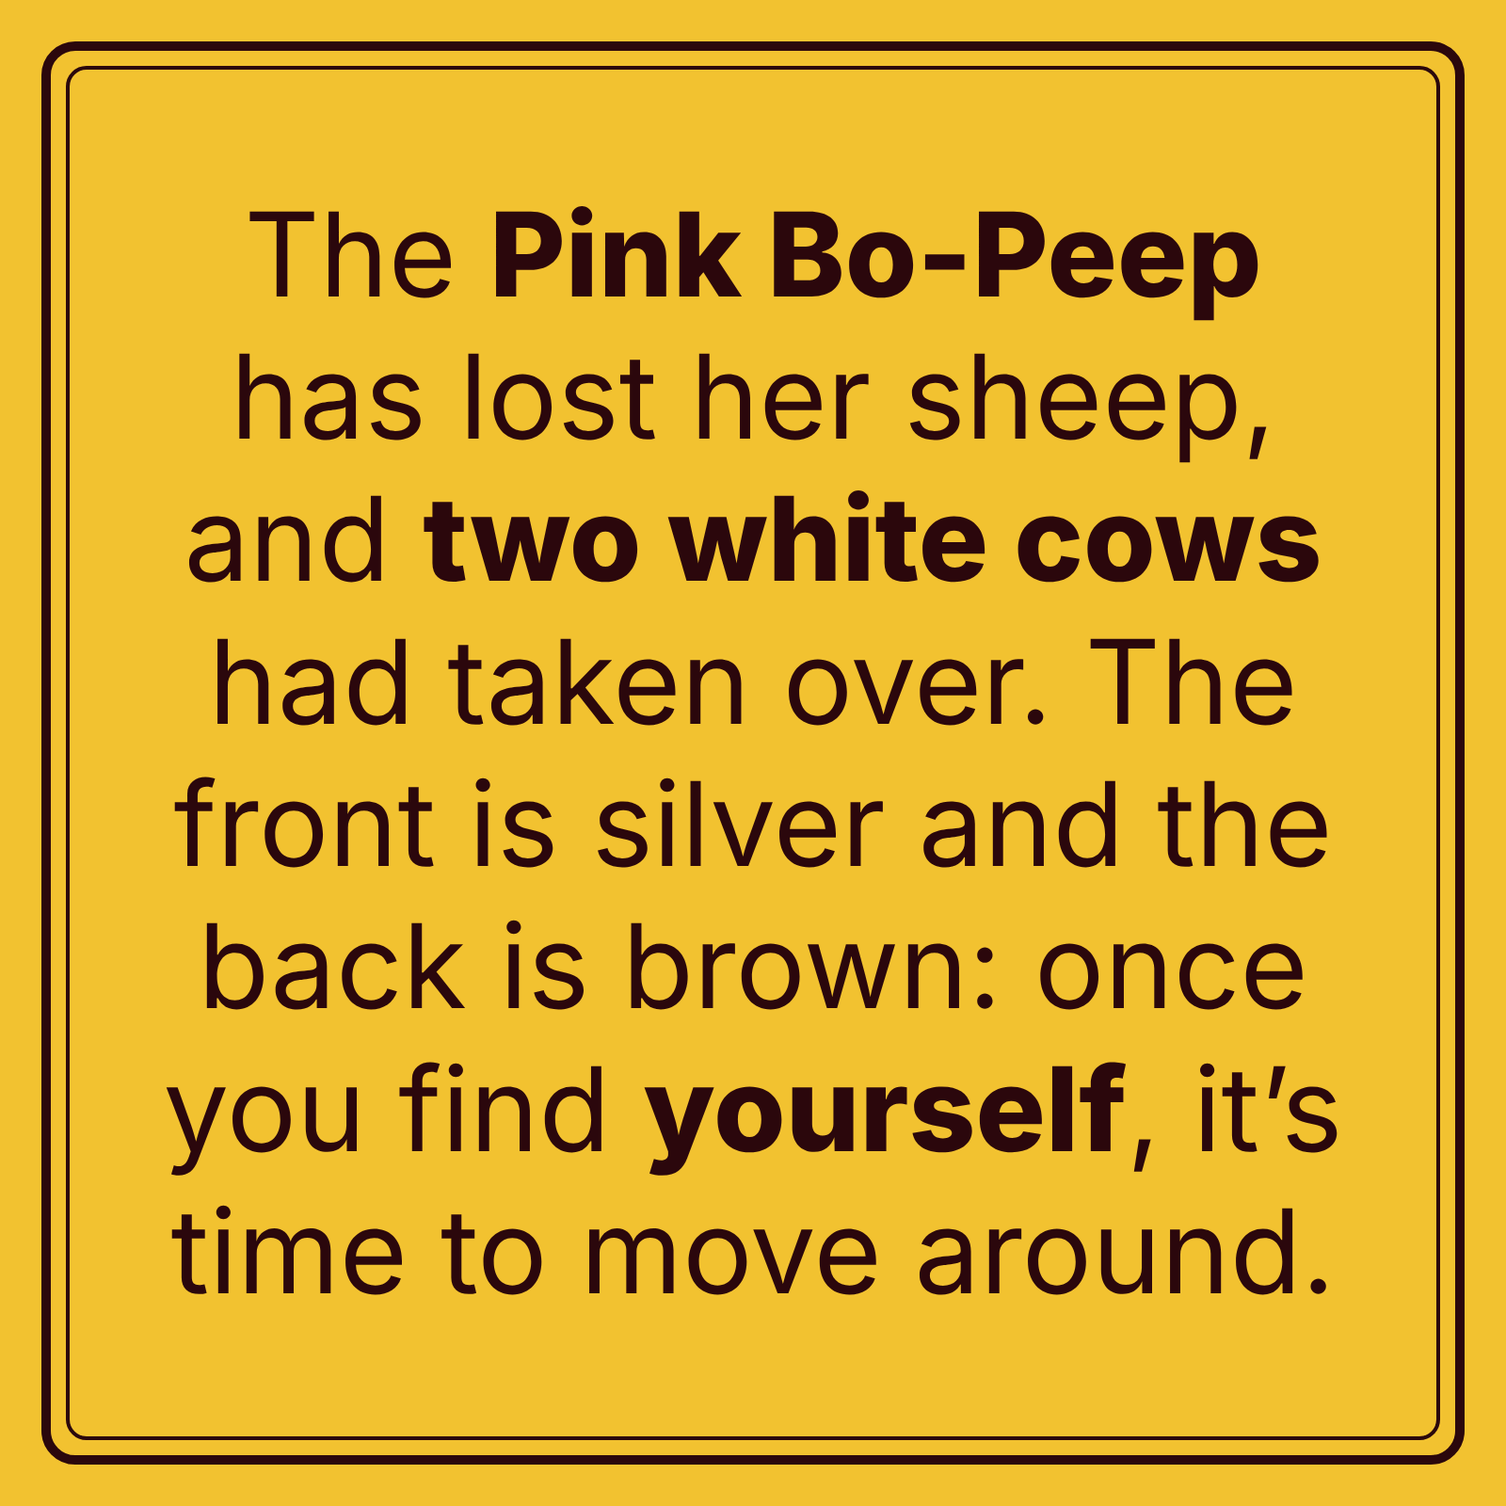
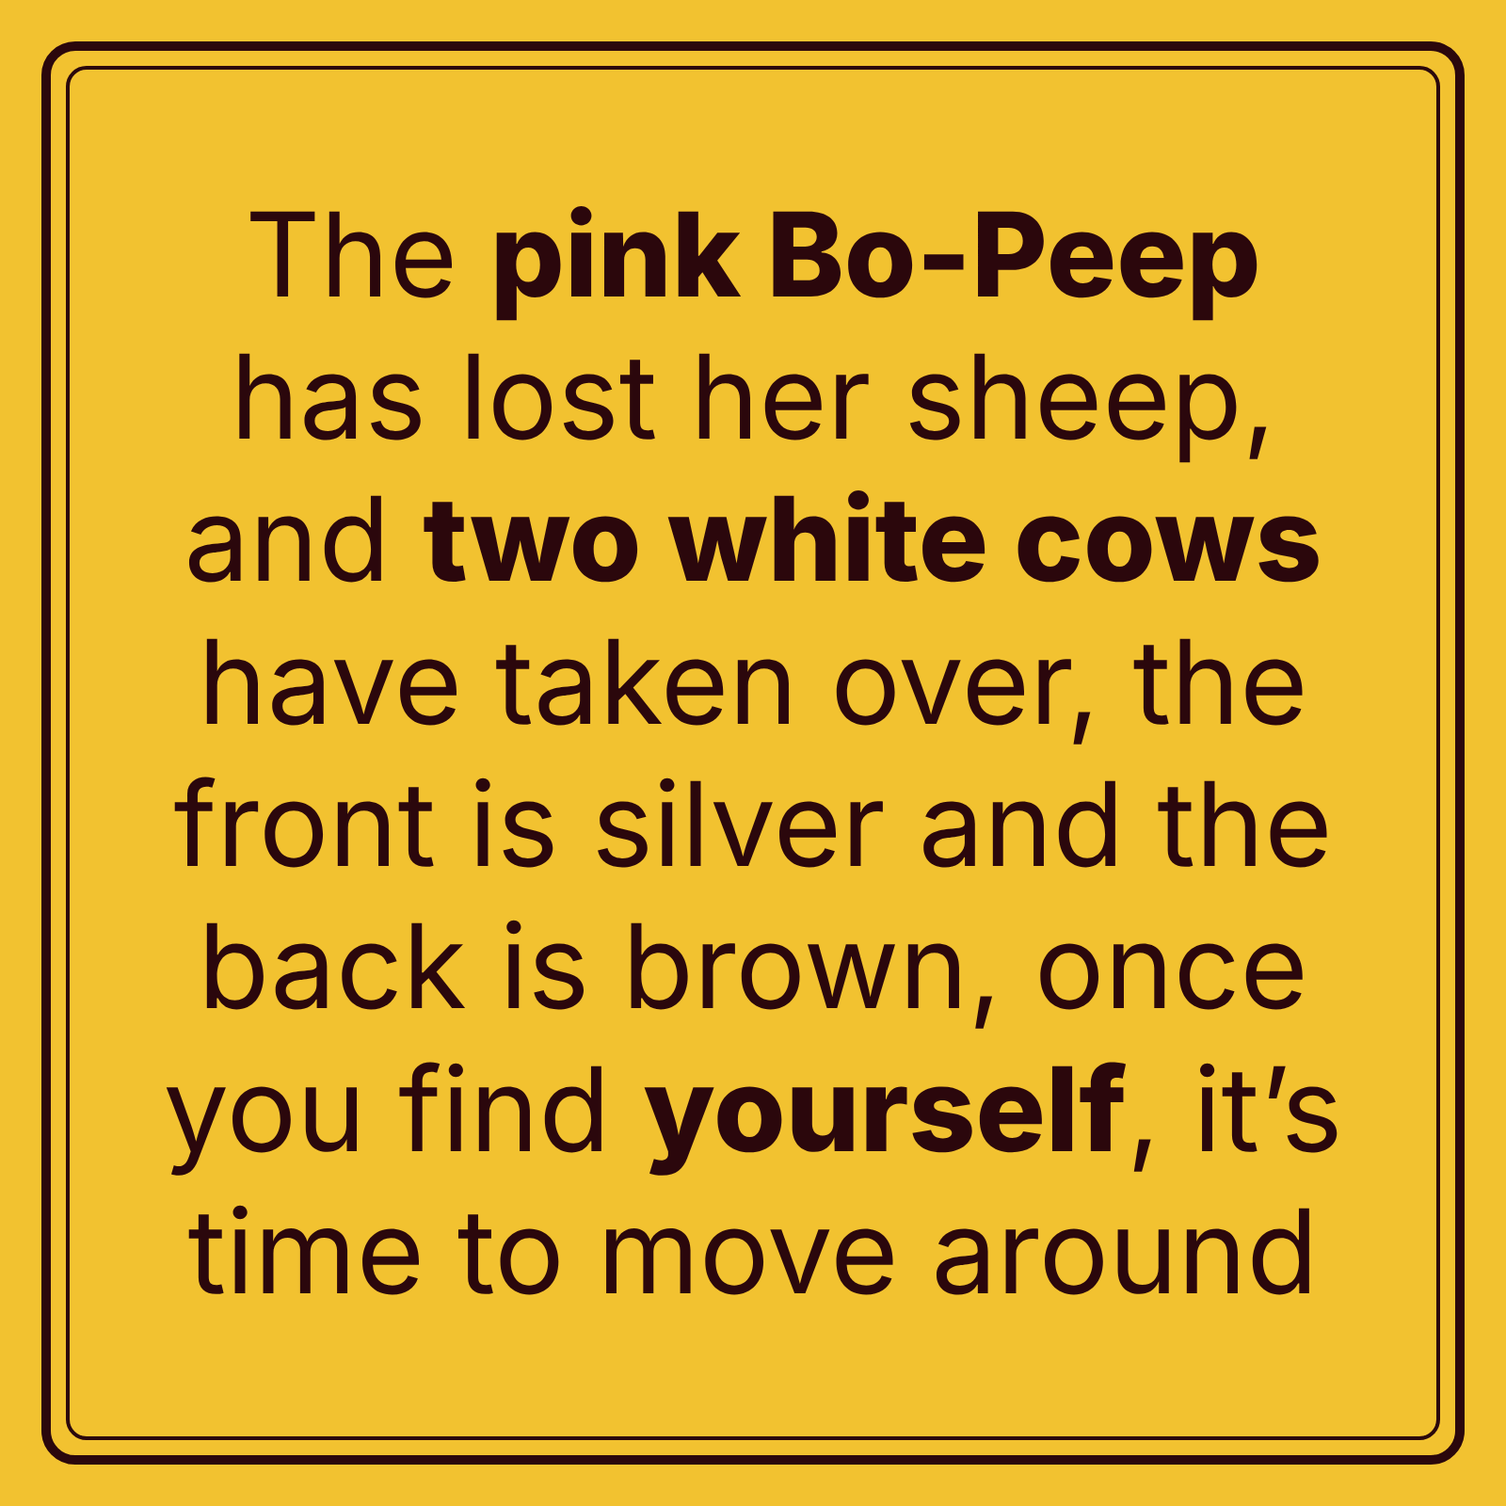
V4006: charcoal default, clearer riddle words, return button, found sound
- Charcoal panels are now the default look; &es3dtheme=e swaps the warm
  yellow for the original electric yellow, &es3dtheme=d gives the yellow
  panels
- The riddle's object words are in the accent colour so they stand out;
  found ones become a solid accent highlight
- Round return button appears after jumping to another level from the
  Found list and takes the player back
- A short, warm found sound made in code, silenced by the mute button
- Name particle effect removed
- Levels 1 and 14 riddles restored word for word from the floor discs,
  and their square disc drafts redrawn

Claude-Session: https://claude.ai/code/session_011WV4C4SMjVX6iBBxmqPquX

diff --git a/mashup_es3d.js b/mashup_es3d.js
@@ -1,5 +1,5 @@
 // =============================================================================
-// EYE SPY 3D - ENGINE (V4005)
+// EYE SPY 3D - ENGINE (V4006)
 // Rewrite of V3031. Still loaded into MPEmbed as a custom script, still uses
 // MPEmbed's popups and per-pano clue audio, but the game itself (levels,
 // progress, hints, skipping, scores) now lives here, with its own HUD.
@@ -14,7 +14,7 @@
   if (window.__ES3D_LOADED__) return;
   window.__ES3D_LOADED__ = true;
 
-  const VERSION = 'V4005';
+  const VERSION = 'V4006';
   console.log('EYE SPY 3D — ' + VERSION + ' loaded');
 
   // ---------------------------------------------------------------------------
@@ -39,9 +39,12 @@
   // address to turn it off, and &es3ddebug=1 to show how long each photo took.
   const PRELOAD_PHOTOS = !/[?&]es3dpreload=0/.test(location.search);
   const DEBUG_TIMING = /[?&]es3ddebug=1/.test(location.search);
-  const THEME = /[?&]es3dtheme=b/.test(location.search)
-    ? { name: 'b', bar: '#1a1714', barText: '#f2c230', burst: '#f2c230', burstEdge: '#1a1714' }
-    : { name: 'd', bar: '#f2c230', barText: '#2b070c', burst: '#f2c230', burstEdge: '#2b070c' };
+  const THEMES = {
+    b: { name: 'b', bar: '#1a1714', barText: '#f2c230' }, // charcoal panels, warm yellow accents
+    e: { name: 'e', bar: '#1a1714', barText: '#ccff00' }, // charcoal panels, electric yellow accents
+    d: { name: 'd', bar: '#f2c230', barText: '#2b070c' }  // yellow panels, burgundy text
+  };
+  const THEME = THEMES[(location.search.match(/[?&]es3dtheme=([a-z])/) || [])[1]] || THEMES.b;
   const SAVE_KEY = 'es3d_save_v1';
   const BOARD_KEY = 'es3d_board_v1';
   const BOARD_SIZE = 10;
@@ -58,7 +61,7 @@
   const LEVELS = [
     {
       sweep: 'cwckxx365uimbeqk6ngp0t5ud', clue: 'pink bopeep.mp3',
-      riddle: 'The {pink bo-peep|Pink Bo-Peep} has lost her sheep, and {two white cows|two white cows} had taken over. The front is silver and the back is brown: once you find {yourself|yourself}, it’s time to move around.',
+      riddle: 'The {pink bo-peep|pink Bo-Peep} has lost her sheep, and {two white cows|two white cows} have taken over, the front is silver and the back is brown, once you find {yourself|yourself}, it\u2019s time to move around',
       items: [
         { id: 'pink bo-peep', name: 'Pink Bo-Peep', photo: 'pink bopeep.jpeg', hint: 'A shepherdess with no flock, dressed in pink.', where: 'On the shelf, just below the two white cows.' },
         { id: 'two white cows', name: 'Two white cows', hint: 'Where the sheep should be, a pair of pale cattle stand instead.', where: 'Directly above the Pink Bo-Peep.' },
@@ -183,7 +186,7 @@
     },
     {
       sweep: 'aty78ze3y9ddyg8702gmncdma', clue: '',
-      riddle: 'When I rowed from {dimboola|Dimboola}, to {egypt etc|Egypt etc}, I wore my {akubra|Akubra} and spied a {tiger|tiger}, a {butterfly|butterfly}, and {horse head|horse head} to end it.',
+      riddle: 'When I rowed from {dimboola|Dimboola}, to {egypt etc|Egypt etc}, I wore my {akubra|Akubra} and spotted a {tiger|tiger}, a {butterfly|butterfly}, and {horse head|horse head} to end it',
       items: [
         { id: 'dimboola', name: 'Dimboola', hint: 'A town in western Victoria. Look for its name in a newspaper clipping.', where: 'To the right of the table in front of the two wooden shelves.' },
         { id: 'egypt etc', name: 'Egypt etc', hint: 'Pyramids, pharaohs and more. Look for the land of the Nile.', where: 'On the second shelf, opposite Dimboola.' },
@@ -283,6 +286,7 @@
     revealed: false,
     resume: false,
     advancePending: false,
+    returnLevel: null, // where a jump from the Found list came from
     currentSweep: '',
     arrivedAt: 0,
     photoBase: '/media/3780//',
@@ -360,10 +364,43 @@
   function unlockAudio() {
     if (audioUnlocked) return;
     audioUnlocked = true;
+    soundContext();
     const url = silentWavUrl();
     sfxPool.concat(clueAudio).forEach((el) => {
       el.src = url;
       el.play().catch(() => {});
+    });
+  }
+
+  let audioCtx = null;
+  function soundContext() {
+    try {
+      audioCtx = audioCtx || new (window.AudioContext || window.webkitAudioContext)();
+      if (audioCtx.state === 'suspended') audioCtx.resume();
+    } catch (e) {}
+    return audioCtx;
+  }
+
+  // Made in code, so there is no file to download.
+  function playFoundSound() {
+    const ctx = state.muted ? null : soundContext();
+    if (!ctx) return;
+    const now = ctx.currentTime;
+    const out = ctx.createGain();
+    out.gain.setValueAtTime(0.0001, now);
+    out.gain.exponentialRampToValueAtTime(0.5, now + 0.012);
+    out.gain.exponentialRampToValueAtTime(0.0001, now + 0.42);
+    out.connect(ctx.destination);
+    [[1, 1], [2, 0.3]].forEach(([multiple, level]) => {
+      const osc = ctx.createOscillator();
+      const gain = ctx.createGain();
+      osc.frequency.setValueAtTime(150 * multiple, now);
+      osc.frequency.exponentialRampToValueAtTime(205 * multiple, now + 0.09);
+      gain.gain.value = level;
+      osc.connect(gain);
+      gain.connect(out);
+      osc.start(now);
+      osc.stop(now + 0.45);
     });
   }
 
@@ -463,10 +500,10 @@
 
   // ---------------------------------------------------------------------------
   // STYLES
-  // Plain sans-serif on solid panels, for readability over a busy scene. Two
-  // palettes share one stylesheet: "d" is yellow panels with burgundy text,
-  // "b" is charcoal panels with cream text and yellow accents. Add
-  // &es3dtheme=b to the page address to see the second one.
+  // Plain sans-serif on solid panels, for readability over a busy scene.
+  // Three palettes share one stylesheet (see THEMES). Charcoal with warm
+  // yellow is the default; add &es3dtheme=e or &es3dtheme=d to the page
+  // address to see the others.
   // ---------------------------------------------------------------------------
   const CSS = `
     * { backdrop-filter: none !important; -webkit-backdrop-filter: none !important; }
@@ -517,8 +554,9 @@
       --es-edge: #2b070c; --es-line: rgba(43,7,12,0.4); --es-track: rgba(43,7,12,0.18);
       font-size: clamp(15px, 0.62vw + 9px, 30px); color: var(--es-text);
     }
-    .es3d.es3d-theme-b {
-      --es-panel: #1a1714; --es-panel-soft: #2d2924; --es-text: #fbf3dc; --es-accent: #f2c230; --es-on-accent: #1a1714;
+    .es3d.es3d-theme-e { --es-sun: #ccff00; }
+    .es3d.es3d-theme-b, .es3d.es3d-theme-e {
+      --es-panel: #1a1714; --es-panel-soft: #2d2924; --es-text: #fbf3dc; --es-accent: var(--es-sun); --es-on-accent: #1a1714;
       --es-edge: rgba(251,243,220,0.45); --es-line: rgba(251,243,220,0.25); --es-track: rgba(251,243,220,0.2);
     }
     .es3d, .es3d * { box-sizing: border-box; font-family: system-ui, -apple-system, "Segoe UI", "Helvetica Neue", Arial, sans-serif; }
@@ -600,11 +638,10 @@
       font-size: 1.2em; line-height: 1.35;
     }
     #es3d-riddle.es3d-collapsed { white-space: nowrap; overflow: hidden; text-overflow: ellipsis; }
-    #es3d-riddle .es3d-item { font-weight: 800; }
-    /* Found words are shown as a solid highlight: the text colour becomes the
-       background and the panel colour becomes the text. */
+    #es3d-riddle .es3d-item { font-weight: 800; color: var(--es-accent); }
+    /* Found words are shown as a solid highlight, like the found pills below. */
     #es3d-riddle .es3d-item.es3d-found {
-      background: var(--es-text); color: var(--es-panel); padding: 0.02em 0.3em; border-radius: 0.2em;
+      background: var(--es-accent); color: var(--es-on-accent); padding: 0.02em 0.3em; border-radius: 0.2em;
       -webkit-box-decoration-break: clone; box-decoration-break: clone;
     }
     #es3d-slots { display: flex; gap: 0.4em; margin-top: 0.55em; flex-wrap: wrap; }
@@ -706,8 +743,6 @@
     }
     #es3d-more span { display: inline-block; padding: 0.25em 0.9em; border-radius: 1em; background: var(--es-accent); color: var(--es-on-accent); }
 
-    #es3d-burst { position: fixed; inset: 0; width: 100vw; height: 100vh; z-index: 2147483646; pointer-events: none; }
-
     @media (max-width: 560px) {
       #es3d-welcome h1 { font-size: 2em; }
       #es3d-controls { gap: 0; }
@@ -723,6 +758,7 @@
     hints: '<circle cx="12" cy="12" r="9"/><path d="M9.5 9.5a2.5 2.5 0 115 0c0 1.7-2.5 2-2.5 4M12 17h.01"/>',
     list: '<rect x="4" y="4" width="16" height="16" rx="2"/><path d="M8 12l3 3 5-6"/>',
     share: '<path d="M12 15V4M8 8l4-4 4 4M5 12v7h14v-7"/>',
+    undo: '<path d="M9 14L4 9l5-5"/><path d="M4 9h10a6 6 0 010 12h-3"/>',
     soundOff: '<path d="M4 9v6h4l5 4V5L8 9H4z"/><path d="M17 9l5 6M22 9l-5 6"/>',
     help: '<circle cx="12" cy="12" r="9"/><path d="M12 11v6M12 7.5h.01"/>'
   };
@@ -777,7 +813,8 @@
     ui.hud.classList.add('es3d-hidden');
     ui.panel = el('div', 'es3d-panel', '<div id="es3d-panel-card" class="es3d-card"><button id="es3d-panel-close" type="button" aria-label="Close">&times;</button><div id="es3d-panel-body"></div><div id="es3d-more" class="es3d-hidden"><span>More below &#8595;</span></div></div>');
     ui.panel.classList.add('es3d-hidden');
-    ui.corner = el('div', 'es3d-corner', '<button type="button" data-corner="mute"></button>' +
+    ui.corner = el('div', 'es3d-corner', '<button type="button" data-corner="return" class="es3d-hidden">' + icon('undo') + '</button>' +
+      '<button type="button" data-corner="mute"></button>' +
       '<button type="button" data-corner="help" title="How to play" aria-label="How to play">' + icon('help') + '</button>');
     ui.corner.classList.add('es3d-hidden');
     ui.toast = el('div', 'es3d-toast');
@@ -793,6 +830,7 @@
       const btn = e.target.closest('button[data-corner]');
       if (!btn) return;
       if (btn.dataset.corner === 'mute') setMuted(!state.muted);
+      else if (btn.dataset.corner === 'return') goToLevel(state.returnLevel);
       else showHelpPanel();
     });
     // A "?" slot opens the hints for that object.
@@ -1035,6 +1073,13 @@
     ui.hud.classList.toggle('es3d-hidden', !inGame);
     ui.prompt.classList.toggle('es3d-hidden', state.phase !== 'lobby');
     ui.corner.classList.toggle('es3d-hidden', !inGame && state.phase !== 'lobby');
+    const back = ui.corner.querySelector('[data-corner="return"]');
+    const canReturn = inGame && state.returnLevel !== null && state.returnLevel !== state.levelIndex;
+    back.classList.toggle('es3d-hidden', !canReturn);
+    if (canReturn) {
+      back.title = 'Return to level ' + (state.returnLevel + 1);
+      back.setAttribute('aria-label', back.title);
+    }
     if (!inGame) return;
 
     const level = LEVELS[state.levelIndex];
@@ -1155,7 +1200,7 @@
         <li>Find them all and you move on to the next stop. There are ${LEVELS.length} stops.</li>
       </ol>
       <h3>The buttons</h3>
-      <p><b>Riddle</b> plays the riddle again. <b>Hints</b> gives up to three hints for each object, or click a <b>?</b> at the top. <b>Found</b> shows everything you have found and lets you jump between stops. <b>Back</b> and <b>Skip</b> move a stop at a time. The round speaker button turns all sound on or off.</p>
+      <p><b>Riddle</b> plays the riddle again. <b>Hints</b> gives up to three hints for each object, or click a <b>?</b> at the top. <b>Found</b> shows everything you have found and lets you jump between stops. <b>Back</b> and <b>Skip</b> move a stop at a time. The round speaker button turns all sound on or off. After jumping to another stop from <b>Found</b>, a round arrow button takes you back.</p>
       <button class="es3d-btn" type="button" id="es3d-rewatch">Watch the intro again</button>`);
     document.getElementById('es3d-rewatch').addEventListener('click', () => {
       closePanel();
@@ -1176,7 +1221,7 @@
     openPanel(`<h2>Found</h2><p>${foundCount()} of ${TOTAL_ITEMS} found. Click a <b>?</b> for hints.</p>${rows}`);
     const body = document.getElementById('es3d-panel-body');
     body.querySelectorAll('button[data-go]').forEach((btn) => {
-      btn.addEventListener('click', () => goToLevel(Number(btn.dataset.go)));
+      btn.addEventListener('click', () => goToLevel(Number(btn.dataset.go), state.levelIndex));
     });
     // A "?" opens that object's hints, moving to its level first if needed.
     body.querySelectorAll('button[data-slot]').forEach((btn) => {
@@ -1184,7 +1229,7 @@
         const levelIndex = Number(btn.dataset.level);
         const slot = Number(btn.dataset.slot);
         if (levelIndex === state.levelIndex) { showHintPanel(slot); return; }
-        goToLevel(levelIndex).then(() => { if (state.levelIndex === levelIndex) showHintPanel(slot); });
+        goToLevel(levelIndex, state.levelIndex).then(() => { if (state.levelIndex === levelIndex) showHintPanel(slot); });
       });
     });
   }
@@ -1358,7 +1403,8 @@
     }
   }
 
-  function arriveAtLevel(index) {
+  function arriveAtLevel(index, returnTo) {
+    state.returnLevel = typeof returnTo === 'number' && returnTo !== index ? returnTo : null;
     state.levelIndex = index;
     state.phase = index >= LEVELS.length ? 'end' : 'playing';
     state.advancePending = false;
@@ -1377,13 +1423,14 @@
     }
   }
 
-  async function goToLevel(index) {
-    if (state.busy || !sdk || index < 0 || index > LEVELS.length) return;
+  // returnTo: the level to offer a way back to (set by jumps from the Found list).
+  async function goToLevel(index, returnTo) {
+    if (state.busy || !sdk || typeof index !== 'number' || index < 0 || index > LEVELS.length) return;
     state.busy = true;
     closePanel();
     try {
       await moveToSweep(sweepFor(index));
-      arriveAtLevel(index);
+      arriveAtLevel(index, returnTo);
     } catch (error) {
       console.error('Eye Spy 3D: could not move to level ' + (index + 1), error);
       toast('Could not move there. Please try again.');
@@ -1501,78 +1548,6 @@
     return true;
   }
 
-  // The found object's name, drawn as particles that fly together, hold, then
-  // scatter. Pure code on a canvas, so it adds no files to download.
-  function burstName(text) {
-    if (window.matchMedia && window.matchMedia('(prefers-reduced-motion: reduce)').matches) return;
-    const old = document.getElementById('es3d-burst');
-    if (old) old.remove();
-    const W = window.innerWidth;
-    const H = window.innerHeight;
-    const size = Math.max(28, Math.min(H * 0.16, (W * 0.86) / (text.length * 0.56)));
-    const font = '900 ' + size + 'px system-ui, -apple-system, "Segoe UI", "Helvetica Neue", Arial, sans-serif';
-    const sample = document.createElement('canvas');
-    sample.width = W;
-    sample.height = Math.ceil(size * 1.5);
-    const sctx = sample.getContext('2d');
-    sctx.font = font;
-    sctx.textAlign = 'center';
-    sctx.textBaseline = 'middle';
-    sctx.fillText(text, W / 2, sample.height / 2);
-    const data = sctx.getImageData(0, 0, sample.width, sample.height).data;
-    const step = Math.max(3, Math.round(size / 22));
-    const top = H * 0.5 - sample.height / 2;
-    const dots = [];
-    for (let y = 0; y < sample.height; y += step) {
-      for (let x = 0; x < sample.width; x += step) {
-        if (data[(y * sample.width + x) * 4 + 3] < 128) continue;
-        const angle = Math.random() * Math.PI * 2;
-        const far = Math.max(W, H) * (0.35 + Math.random() * 0.4);
-        dots.push({
-          tx: x, ty: top + y, sx: x + Math.cos(angle) * far, sy: top + y + Math.sin(angle) * far,
-          vx: (Math.random() - 0.5) * 9, vy: -Math.random() * 7 - 1, delay: Math.random() * 0.12
-        });
-      }
-    }
-    const canvas = document.createElement('canvas');
-    canvas.id = 'es3d-burst';
-    const ratio = Math.min(window.devicePixelRatio || 1, 2);
-    canvas.width = W * ratio;
-    canvas.height = H * ratio;
-    document.body.appendChild(canvas);
-    const ctx = canvas.getContext('2d');
-    ctx.scale(ratio, ratio);
-    const IN = 0.45, HOLD = 0.55, OUT = 0.6;
-    const start = performance.now();
-    const frame = (now) => {
-      const t = (now - start) / 1000;
-      if (t > IN + HOLD + OUT || !canvas.isConnected) { canvas.remove(); return; }
-      ctx.clearRect(0, 0, W, H);
-      dots.forEach((d) => {
-        let x, y, alpha = 1;
-        if (t < IN + HOLD) {
-          const k = Math.min(1, Math.max(0, (t - d.delay) / IN));
-          const ease = 1 - Math.pow(1 - k, 3);
-          x = d.sx + (d.tx - d.sx) * ease;
-          y = d.sy + (d.ty - d.sy) * ease;
-          alpha = k;
-        } else {
-          const o = t - IN - HOLD;
-          x = d.tx + d.vx * o * 60;
-          y = d.ty + d.vy * o * 60 + 0.5 * 26 * o * o * 60;
-          alpha = Math.max(0, 1 - o / OUT);
-        }
-        ctx.globalAlpha = alpha;
-        ctx.fillStyle = THEME.burstEdge;
-        ctx.fillRect(x - 1, y - 1, step + 1, step + 1);
-        ctx.fillStyle = THEME.burst;
-        ctx.fillRect(x, y, step - 1, step - 1);
-      });
-      requestAnimationFrame(frame);
-    };
-    requestAnimationFrame(frame);
-  }
-
   function registerFind(label, imageSrc) {
     const level = LEVELS[state.levelIndex];
     if (state.phase !== 'playing' || state.busy || !level) return;
@@ -1584,7 +1559,7 @@
     if (state.found[item.id]) return;
     state.found[item.id] = true;
     playItemSound(item);
-    burstName(item.name);
+    playFoundSound();
     if (isLevelComplete(level)) state.advancePending = true;
     if (foundCount() === TOTAL_ITEMS) state.finished = true;
     save();

diff --git a/README.md b/README.md
@@ -32,7 +32,8 @@ https://mpembed.com/show/?m=xqbmbKAYgu6&mpu=3780&customjs=https://cdn.jsdelivr.n
   - Level 6, barley: the location note was unclear; it currently reads "In the same cabinet as hide and seek".
   - Level 12, goanna: the note said "on the floor below the wooden goanna"; what is it below?
   - About a dozen first hints (nudges) are guesses from the riddle wording.
-- **Design:** every visual change is shown as options and chosen before it is built. Chosen so far: yellow panels with burgundy text in a plain sans-serif. Open choices: the "found" sound, square riddle discs for the floor (drafts in `nadirs/`), a "Found!" moment, and phone-framed or moving photos.
+- **Riddle wording:** the floor discs are the master copy, because the recordings follow them. Levels 1 and 14 now match their discs word for word. Levels 2 to 13 still use a typed version and need checking against the disc images.
+- **Design:** every visual change is shown as options and chosen before it is built. Current look: charcoal panels, cream text, yellow accents, plain sans-serif. Open choices: warm or electric yellow, square riddle discs for the floor (drafts in `nadirs/`), and phone-framed or moving photos.
 - **Intro video:** to be replaced (`YOUTUBE_VIDEO_ID`).
 - **Phones:** tall popup images are a first attempt and untested on a real phone.
 - **Multiplayer:** shared rooms so friends in different places can play together and talk, most likely as a Discord Activity.

diff --git a/HINTS.md b/HINTS.md
@@ -7,7 +7,7 @@ Lines marked **CHECK** need your eye: the nudges were written from the riddle wo
 
 ## Level 1
 
-The **Pink Bo-Peep** has lost her sheep, and **two white cows** had taken over. The front is silver and the back is brown: once you find **yourself**, it’s time to move around.
+The **pink Bo-Peep** has lost her sheep, and **two white cows** have taken over, the front is silver and the back is brown, once you find **yourself**, it’s time to move around
 
 1. **Pink Bo-Peep**
    - Nudge: A shepherdess with no flock, dressed in pink.
@@ -273,7 +273,7 @@ The flock of **mock ducks** hang out far from the **wooden goanna**, and halfway
 
 ## Level 14
 
-When I rowed from **Dimboola**, to **Egypt etc**, I wore my **Akubra** and spied a **tiger**, a **butterfly**, and **horse head** to end it.
+When I rowed from **Dimboola**, to **Egypt etc**, I wore my **Akubra** and spotted a **tiger**, a **butterfly**, and **horse head** to end it
 
 1. **Dimboola**
    - Nudge: A town in western Victoria. Look for its name in a newspaper clipping.
